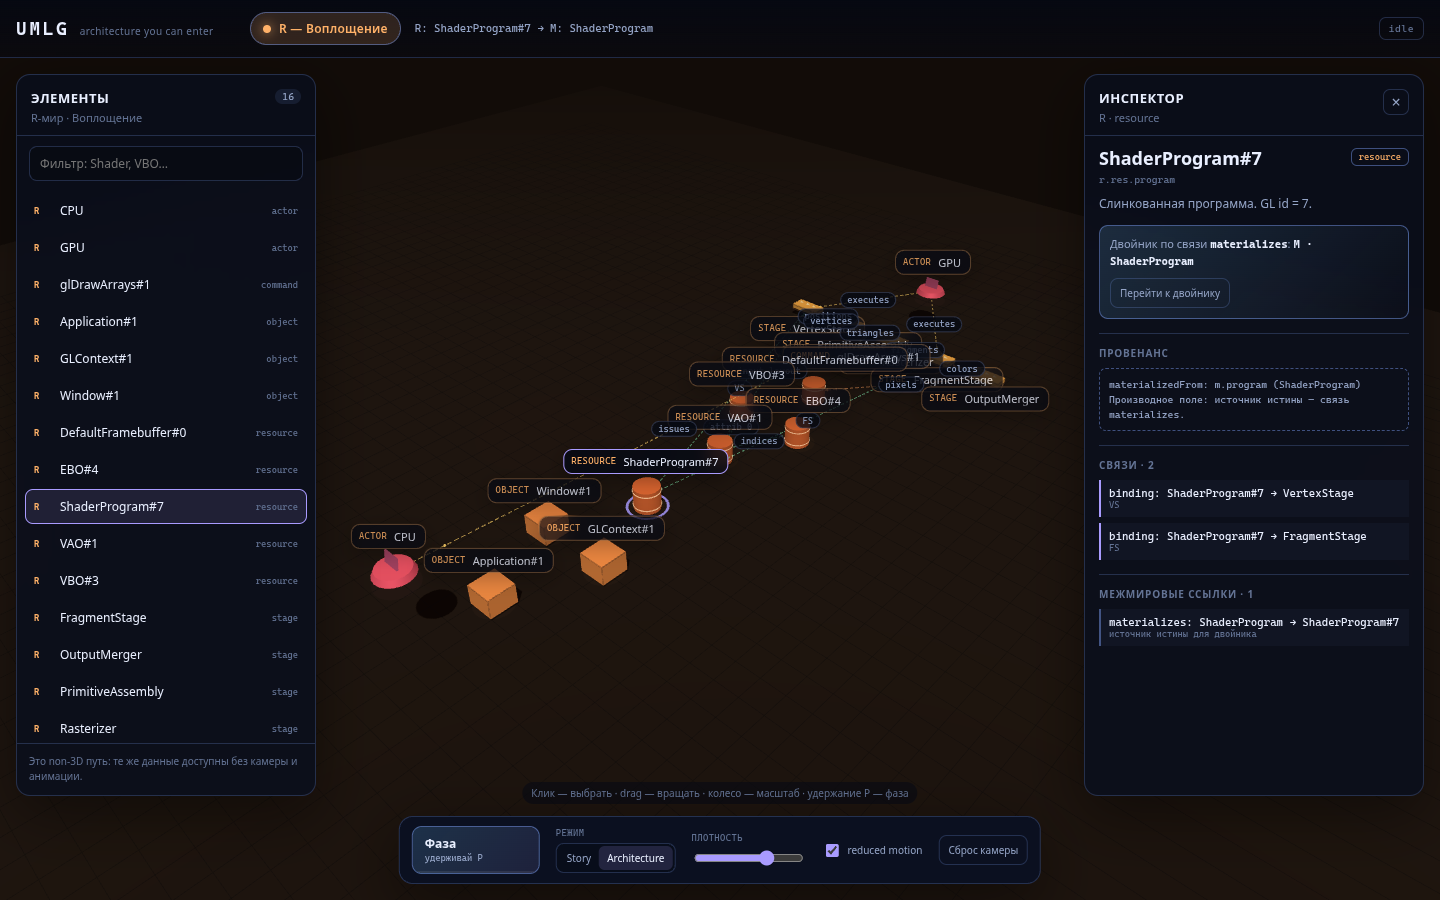
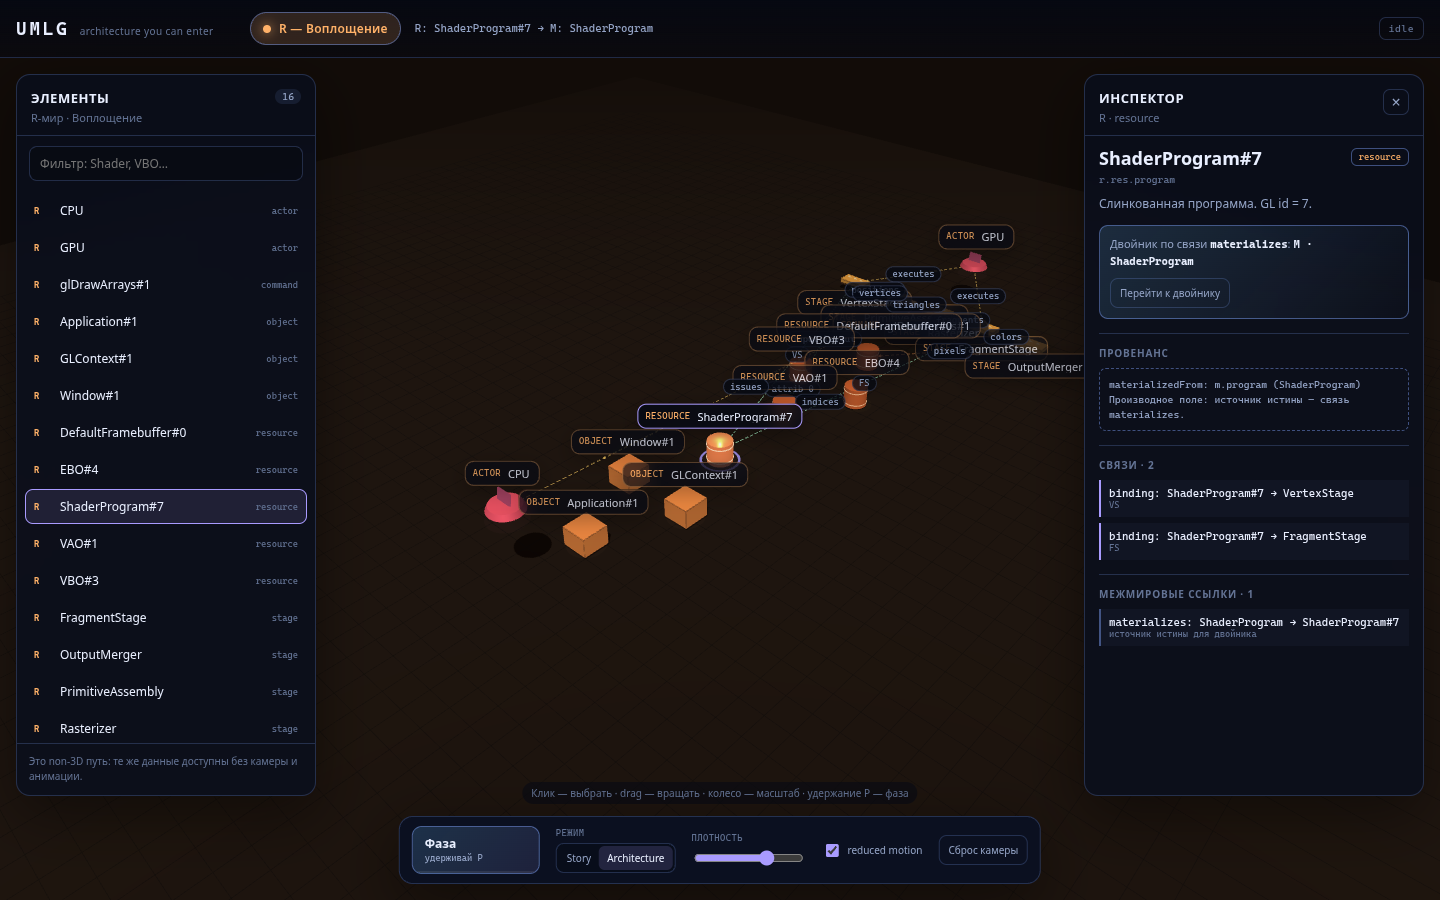
Highlight selected element and its relations

Changed region(s): [[0.25, 0.2489, 0.75, 0.6844]]

diff --git a/viewer/src/scene/relations.ts b/viewer/src/scene/relations.ts
@@ -27,6 +27,8 @@ function edgeMaterial(
   return new THREE.LineBasicMaterial({ color, transparent: true, opacity });
 }
 
+const WHITE = new THREE.Color(0xffffff);
+
 export class RelationVisual {
   readonly relation: Relation;
   readonly group: THREE.Group;
@@ -34,15 +36,25 @@ export class RelationVisual {
   private readonly from: THREE.Vector3;
   private readonly to: THREE.Vector3;
   private readonly material: THREE.LineBasicMaterial | THREE.LineDashedMaterial;
+  private readonly baseLineColor: THREE.Color;
+  private readonly extraStyles: Array<{
+    material: THREE.Material & { opacity: number; color?: THREE.Color };
+    opacity: number;
+    color?: THREE.Color;
+  }> = [];
   private readonly pulse?: THREE.Mesh;
   private readonly pulseSpeed: number;
   private readonly pulsePhase: number;
+  private density: number;
+  private highlighted = false;
+  private labelVisible = false;
 
   constructor(relation: Relation, options: RelationVisualOptions) {
     this.relation = relation;
     this.from = options.from.clone();
     this.to = options.to.clone();
     this.group = new THREE.Group();
+    this.density = options.density;
 
     const direction = this.to.clone().sub(this.from);
     const length = direction.length();
@@ -59,6 +71,7 @@ export class RelationVisual {
 
     const geometry = new THREE.BufferGeometry().setFromPoints([start, end]);
     this.material = edgeMaterial(color, dashed, opacity);
+    this.baseLineColor = new THREE.Color(color);
     const line = new THREE.Line(geometry, this.material);
     if (dashed) {
       line.computeLineDistances();
@@ -121,6 +134,28 @@ export class RelationVisual {
       this.pulseSpeed = 0;
       this.pulsePhase = 0;
     }
+
+    this.captureExtraStyles();
+    this.setDensity(options.density);
+  }
+
+  private captureExtraStyles(): void {
+    const seen = new Set<THREE.Material>();
+    this.group.traverse((object) => {
+      if (!(object instanceof THREE.Mesh) && !(object instanceof THREE.Line)) return;
+      const source = object.material;
+      const materials = Array.isArray(source) ? source : [source];
+      for (const material of materials) {
+        if (!material || material === this.material || seen.has(material)) continue;
+        seen.add(material);
+        const typed = material as THREE.Material & { opacity: number; color?: THREE.Color };
+        this.extraStyles.push({
+          material: typed,
+          opacity: typed.opacity,
+          color: typed.color?.clone(),
+        });
+      }
+    });
   }
 
   connect(id: string): boolean {
@@ -128,15 +163,36 @@ export class RelationVisual {
   }
 
   setHighlighted(highlighted: boolean): void {
-    this.labelElement.classList.toggle("visible", highlighted);
+    this.highlighted = highlighted;
+    this.applyLabelVisibility();
+    this.applyStyle();
   }
 
   setAlwaysVisible(visible: boolean): void {
-    this.setHighlighted(visible);
+    this.labelVisible = visible;
+    this.applyLabelVisibility();
   }
 
   setDensity(density: number): void {
-    this.material.opacity = 0.1 + Math.max(0, Math.min(1, density)) * 0.65;
+    this.density = Math.max(0, Math.min(1, density));
+    this.applyStyle();
+  }
+
+  private applyLabelVisibility(): void {
+    this.labelElement.classList.toggle("visible", this.labelVisible || this.highlighted);
+  }
+
+  private applyStyle(): void {
+    const boost = this.highlighted ? 1.4 : 1;
+    this.material.opacity = Math.min(1, (0.1 + this.density * 0.65) * boost);
+    this.material.color.copy(this.baseLineColor).lerp(WHITE, this.highlighted ? 0.18 : 0);
+
+    for (const entry of this.extraStyles) {
+      entry.material.opacity = Math.min(1, entry.opacity * (this.highlighted ? 1.2 : 1));
+      if (entry.color && entry.material.color) {
+        entry.material.color.copy(entry.color).lerp(WHITE, this.highlighted ? 0.12 : 0);
+      }
+    }
   }
 
   animate(now: number): void {

diff --git a/viewer/src/scene/visuals.ts b/viewer/src/scene/visuals.ts
@@ -9,6 +9,8 @@ export interface ElementVisualOptions {
   onSelect: (id: string) => void;
 }
 
+const WHITE = new THREE.Color(0xffffff);
+
 function openBoxEdges(width: number, height: number, depth: number): THREE.BufferGeometry {
   const x = width / 2;
   const y = height / 2;
@@ -80,6 +82,15 @@ export class ElementVisual {
   private readonly label: CSS2DObject;
   private readonly selectionRing: THREE.Mesh;
   private readonly selectionMaterial: THREE.MeshBasicMaterial;
+  private readonly materialStyles: Array<{
+    material: THREE.Material & { opacity: number; color?: THREE.Color };
+    opacity: number;
+    color?: THREE.Color;
+  }> = [];
+  private readonly emissiveStyles: Array<{
+    material: THREE.MeshStandardMaterial;
+    intensity: number;
+  }> = [];
   private selected = false;
   private density: number;
   private labelsVisible = true;
@@ -348,7 +359,32 @@ export class ElementVisual {
     }
     this.group.add(this.label);
 
+    this.captureStyles();
     this.setDensity(options.density);
+  }
+
+  private captureStyles(): void {
+    const seen = new Set<THREE.Material>();
+    for (const mesh of this.meshes) {
+      const source = mesh.material;
+      const materials = Array.isArray(source) ? source : [source];
+      for (const material of materials) {
+        if (!material || seen.has(material)) continue;
+        seen.add(material);
+        const typed = material as THREE.Material & { opacity: number; color?: THREE.Color };
+        this.materialStyles.push({
+          material: typed,
+          opacity: typed.opacity,
+          color: typed.color?.clone(),
+        });
+        if (material instanceof THREE.MeshStandardMaterial) {
+          this.emissiveStyles.push({
+            material,
+            intensity: material.emissiveIntensity,
+          });
+        }
+      }
+    }
   }
 
   setSelected(selected: boolean): void {
@@ -356,8 +392,28 @@ export class ElementVisual {
     this.selectionMaterial.opacity = selected ? 0.85 : 0;
     this.labelElement.classList.toggle("selected", selected);
     this.group.scale.setScalar(selected ? 1.06 : 1);
+    this.applySelectionStyle();
     this.applyLabelVisibility();
     this.setDensity(this.density);
+  }
+
+  private applySelectionStyle(): void {
+    for (const entry of this.materialStyles) {
+      entry.material.opacity = this.selected
+        ? Math.min(1, entry.opacity + 0.22)
+        : entry.opacity;
+      if (entry.color && entry.material.color) {
+        entry.material.color.copy(entry.color);
+        if (this.selected) {
+          entry.material.color.lerp(WHITE, 0.12);
+        }
+      }
+    }
+    for (const entry of this.emissiveStyles) {
+      entry.material.emissiveIntensity = this.selected
+        ? entry.intensity + 0.35
+        : entry.intensity;
+    }
   }
 
   setLabelVisible(visible: boolean): void {

diff --git a/viewer/src/scene/SceneManager.ts b/viewer/src/scene/SceneManager.ts
@@ -30,6 +30,7 @@ export class SceneManager {
   private readonly ambient: THREE.HemisphereLight;
   private readonly keyLight: THREE.DirectionalLight;
   private readonly rimLight: THREE.PointLight;
+  private readonly selectionLight: THREE.PointLight;
   private readonly raycaster = new THREE.Raycaster();
   private readonly pointer = new THREE.Vector2();
   private pointerDown: PointerPosition = { x: 0, y: 0 };
@@ -97,6 +98,10 @@ export class SceneManager {
     this.rimLight = new THREE.PointLight(0x5f7cff, 30, 90, 2);
     this.rimLight.position.set(-14, 10, -18);
     this.scene.add(this.rimLight);
+
+    this.selectionLight = new THREE.PointLight(0x9fd4ff, 0, 8, 2);
+    this.selectionLight.position.set(0, 1.4, 0);
+    this.scene.add(this.selectionLight);
 
     this.grid = new THREE.GridHelper(150, 75, 0x1b2a48, 0x2f4c7a);
     this.grid.position.y = -1;
@@ -223,8 +228,11 @@ export class SceneManager {
     }
     this.selectedId = id;
     visual.setSelected(true);
+    this.selectionLight.position.copy(visual.basePosition).add(new THREE.Vector3(0, 1.4, 0));
+    this.selectionLight.color.set(this.currentWorld === "M" ? 0x9fd4ff : 0xffb168);
+    this.selectionLight.intensity = this.currentWorld === "M" ? 4 : 5;
     for (const relation of this.relationVisuals) {
-      relation.setHighlighted(this.architectureMode || relation.connect(id));
+      relation.setHighlighted(relation.connect(id));
     }
     if (focus) {
       this.focusOn(id);
@@ -237,8 +245,9 @@ export class SceneManager {
       this.visuals.get(this.selectedId)?.setSelected(false);
     }
     this.selectedId = null;
+    this.selectionLight.intensity = 0;
     for (const relation of this.relationVisuals) {
-      relation.setHighlighted(this.architectureMode);
+      relation.setHighlighted(false);
     }
     this.onSelect?.("");
   }
@@ -259,7 +268,7 @@ export class SceneManager {
       visual.setLabelVisible(value);
     }
     for (const relation of this.relationVisuals) {
-      relation.setAlwaysVisible(value || relation.connect(this.selectedId ?? ""));
+      relation.setAlwaysVisible(value);
     }
   }
 

diff --git a/viewer/README.md b/viewer/README.md
@@ -50,6 +50,17 @@ http://localhost:5173/?model=examples/hello-triangle/model.json&layout=examples/
 | Сброс камеры | возвращает камеру из `layout.json` |
 | «Перейти к двойнику» | переход в другой мир с выбором парного элемента; камера центрируется на нём |
 
+## Выделение
+
+Выделение — это текущий фокус, а не семантическое утверждение. Выбранный элемент получает:
+
+- кольцо под объектом и чуть больший масштаб;
+- более яркий emissive/opacity и локальный источник света;
+- подсвеченные связи с подписями;
+- строку в non-3D списке и данные в инспекторе.
+
+Цвет и свет здесь означают только «сюда смотрит пользователь». Тип, `materializes`, `drift` и инварианты по-прежнему читаются из модели, а не из подсветки.
+
 Фазовый переход следует [`../spec/04-transitions.md`](../spec/04-transitions.md):
 
 1. `arming` — 200 мс удержания;

diff --git a/CHANGELOG.md b/CHANGELOG.md
@@ -29,6 +29,7 @@
 - Инспектор с членами, связями, инвариантами и провенансом; список элементов с фильтром как non-3D путь.
 - Фазовый переход по `P` с вуалью, таймингами и `reduced motion`; перенос фокуса на двойника.
 - При переходе к двойнику камера центрируется на выбранном элементе под вуалью.
+- Выделенный элемент и его связи подсвечиваются локальным светом, emissive и более яркими линиями.
 - HUD мира и двойника, режимы Story/Architecture, плотность подписей, сброс камеры.
 - Скриншоты вьюера в `viewer/screenshots/`.
 - `docs/handoff.md` — состояние проекта и правила передачи между сессиями.
